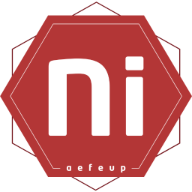
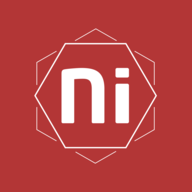
added and replaced the new images without aefeup

diff --git a/src/images/ni_negative_logo.svelte b/src/images/ni_negative_logo.svelte
@@ -21,31 +21,7 @@
       fill="white"
     />
     <path
-      d="M28.3939 70.2245C28.1919 70.2729 27.9032 70.3212 27.6338 70.3212C27.0469 70.3212 26.7294 69.9829 26.7294 69.403V69.1227C26.7294 68.5429 27.0469 68.2046 27.6338 68.2046C27.9129 68.2046 28.1919 68.2432 28.3939 68.3012C28.4902 68.3206 28.5094 68.3496 28.5094 68.4075V70.1279C28.4998 70.1762 28.4902 70.2052 28.3939 70.2245ZM27.9225 68.6975C27.8551 68.6878 27.7493 68.6782 27.6242 68.6782C27.3644 68.6782 27.2971 68.8618 27.2971 69.1131V69.3934C27.2971 69.6446 27.3644 69.8379 27.6242 69.8379C27.7397 69.8379 27.8551 69.8283 27.9225 69.8186V68.6975Z"
-      fill="white"
-    />
-    <path
-      d="M32.9451 69.4417H31.8001V69.4513C31.8001 69.6543 31.8867 69.8476 32.1753 69.8476C32.4063 69.8476 32.7238 69.8283 32.8681 69.8186H32.8777C32.9162 69.8186 32.9451 69.8379 32.9451 69.8766V70.1472C32.9451 70.2052 32.9258 70.2342 32.8681 70.2439C32.6372 70.3018 32.4447 70.3308 32.1272 70.3308C31.6942 70.3308 31.2228 70.0989 31.2228 69.403V69.1517C31.2228 68.5719 31.5595 68.2046 32.1368 68.2046C32.7238 68.2046 33.0317 68.6105 33.0317 69.1517V69.3644C33.0221 69.403 32.9932 69.4417 32.9451 69.4417ZM32.4544 69.0648C32.4544 68.7941 32.3293 68.6685 32.1272 68.6685C31.9252 68.6685 31.8001 68.8038 31.8001 69.0648V69.0841H32.4544V69.0648Z"
-      fill="white"
-    />
-    <path
-      d="M36.813 68.6587H36.3223V70.2051C36.3223 70.2438 36.2838 70.2824 36.2453 70.2824H35.8123C35.7738 70.2824 35.7354 70.2438 35.7354 70.2051V68.0789C35.7354 67.586 36.0721 67.47 36.4377 67.47C36.5628 67.47 36.7264 67.4893 36.8322 67.499C36.8707 67.5086 36.89 67.5183 36.89 67.5376V67.8372C36.89 67.8759 36.8803 67.8952 36.8419 67.8952H36.4666C36.3511 67.8952 36.3319 67.9629 36.3319 68.0692V68.2142H36.8226C36.8611 68.2142 36.89 68.2432 36.89 68.2818V68.5718C36.8803 68.6297 36.8515 68.6587 36.813 68.6587Z"
-      fill="white"
-    />
-    <path
-      d="M41.2006 69.4417H40.0556V69.4513C40.0556 69.6543 40.1422 69.8476 40.4308 69.8476C40.6618 69.8476 40.9793 69.8283 41.1236 69.8186H41.1332C41.1717 69.8186 41.2006 69.8379 41.2006 69.8766V70.1472C41.2006 70.2052 41.191 70.2342 41.1236 70.2439C40.8927 70.3018 40.7002 70.3308 40.3827 70.3308C39.9497 70.3308 39.4783 70.0989 39.4783 69.403V69.1517C39.4783 68.5719 39.815 68.2046 40.3923 68.2046C40.9793 68.2046 41.2872 68.6105 41.2872 69.1517V69.3644C41.2775 69.403 41.2487 69.4417 41.2006 69.4417ZM40.7099 69.0648C40.7099 68.7941 40.5848 68.6685 40.3827 68.6685C40.1807 68.6685 40.0556 68.8038 40.0556 69.0648V69.0841H40.7099V69.0648Z"
-      fill="white"
-    />
-    <path
-      d="M44.8953 70.321H44.8376C44.6067 70.321 43.9716 70.2533 43.9716 69.4125V68.3107C43.9716 68.2721 44.0005 68.2334 44.039 68.2334H44.4816C44.5201 68.2334 44.5489 68.2721 44.5489 68.3107V69.4125C44.5489 69.7508 44.6548 69.8281 44.828 69.8281H44.8761C45.0493 69.8281 45.1551 69.7508 45.1551 69.4125V68.3107C45.1551 68.2721 45.184 68.2334 45.2225 68.2334H45.6651C45.7035 68.2334 45.7324 68.2721 45.7324 68.3107V69.4125C45.7516 70.2533 45.1166 70.321 44.8953 70.321Z"
-      fill="white"
-    />
-    <path
-      d="M49.3887 70.321C49.3214 70.321 49.1963 70.3113 49.0904 70.292V70.9105C49.0904 70.9492 49.0616 70.9782 49.0231 70.9782H48.5901C48.5516 70.9782 48.5131 70.9492 48.5131 70.9105V68.388C48.5131 68.33 48.5227 68.301 48.6286 68.2817C48.8306 68.2334 49.1193 68.1851 49.3983 68.1851C49.9853 68.1851 50.3028 68.5233 50.3028 69.1032V69.3835C50.2932 69.9634 49.9949 70.321 49.3887 70.321ZM49.7062 69.1129C49.7062 68.8616 49.6389 68.678 49.3887 68.678C49.2732 68.678 49.1578 68.6876 49.0904 68.6973V69.8184C49.177 69.8281 49.3021 69.8377 49.3887 69.8377C49.6485 69.8377 49.7062 69.6444 49.7062 69.3932V69.1129Z"
-      fill="white"
-    />
-    <path
-      d="M24.1315 69.3738L21.2257 69.3642L3.70959 39.5L21.1968 9.56812H55.816L55.8738 9.66476L72.801 39.5L55.816 69.3642H52.8044V68.0794H55.1804L70.9462 39.5L55.4122 11.3853L22.0258 11.1529L5.5644 39.5L22.0258 68.0794H24.1315V69.3738Z"
+      d="M21.2257 69.3642L3.70959 39.5L21.1968 9.56812H55.816L55.8738 9.66476L72.801 39.5L55.816 69.3642H21.2257V68.0794H55.1804L70.9462 39.5L55.4122 11.3853L22.0258 11.1529L5.5644 39.5L22.0258 68.0794H21.2257V69.3642Z"
       fill="white"
     />
     <path

diff --git a/src/routes/(app)/(home)/_components/departments-section.svelte b/src/routes/(app)/(home)/_components/departments-section.svelte
@@ -4,7 +4,7 @@
 
   const logo = {
     type: 'logo',
-    image: '/images/logo_2018_watermark.svg',
+    image: '/images/logo_ni_white_no-background.svg',
     onselect: () => {
       selectedTitle = defaultTitle;
       selectedDescription = defaultDescription;
